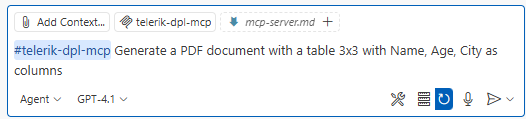
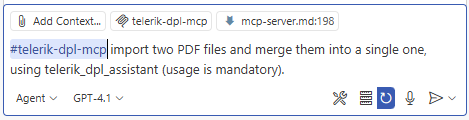
polishing

Changed region(s): [[0.0, 0.0, 1.0, 0.9832], [0.5672, 0.2521, 0.597, 0.2773]]

diff --git a/ai-coding-assistant/mcp-server.md b/ai-coding-assistant/mcp-server.md
@@ -195,13 +195,17 @@ To increase the likelihood of the Telerik MCP server being used, add custom inst
 
 The following examples demonstrate useful prompts for the Telerik Document Processing MCP Server:
 
-* "`#telerik-dpl-mcp` Generate a PDF document with a 3x3 table having Name, Age, and City as columns"
+* "`#telerik-dpl-mcp` import two PDF files and merge them into a single one, using telerik_dpl_assistant (usage is mandatory)."
 
-    ![Sample Prompt for MCP Server in VS Code Generating a Table](images/sample-prompt-dpl-mcp-server-in-vs-code.png)   
+    ![Sample Prompt for MCP Server in VS Code Merging PDFs](images/sample-prompt-dpl-mcp-server-in-vs-code.png)   
 
-* "`/telerikdpl` Import an unsigned PDF document and sign it"
+|Run telerik_dpl_assistant in VS Code|Ran telerik_dpl_assistant in VS Code|
+|----|----| 
+|
+![Running Sample Prompt for MCP Server in VS Code Merging PDFs](images/running-sample-prompt-dpl-mcp-server-in-vs-code.png)|![Produced Result with MCP Server in VS Code Merging PDFs](images/result-sample-prompt-dpl-mcp-server-in-vs-code.png)|    
 
-    ![Sample Prompt for MCP Server in VS Code Signing a Document](images/sample-prompt-dpl-mcp-server-in-vs-code-signing-document.png)   
+
+* "`#telerik-dpl-mcp` create a PDF file with a link to "http://telerik.com" in it, using telerik_dpl_assistant (usage is mandatory)."
 
 ## Number of Requests
 
